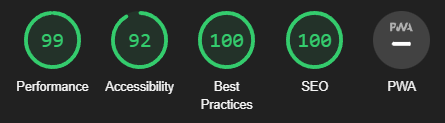
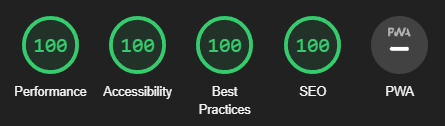
Upgrade | Lighthouse 100%

diff --git a/src/css/index-style.min.css b/src/css/index-style.min.css
@@ -1,1 +1,1 @@
-@import"https://fonts.googleapis.com/css2?family=Chakra+Petch:ital,wght@0,300;0,400;0,500;0,600;0,700;1,300;1,400;1,500;1,600;1,700&display=swap";@import"https://fonts.googleapis.com/css2?family=Exo+2:ital,wght@0,100;0,200;0,300;0,400;0,500;0,600;0,700;0,800;0,900;1,100;1,200;1,300;1,400;1,500;1,600;1,700;1,800;1,900&display=swap";*{margin:0;padding:0;-webkit-box-sizing:border-box;box-sizing:border-box}html{color:#fff;font-family:"Exo 2",sans-serif;font-size:62.5%;background:linear-gradient(179.87deg, #230079 0.27%, #380062 46.44%, #7D0491 99.88%);background-repeat:no-repeat;background-size:cover;width:100vw;height:376.3rem}a,ul{text-decoration:none;list-style:none;color:#fff}.header{width:101.3rem;height:13.2rem;margin:0 auto;display:-webkit-box;display:-ms-flexbox;display:flex;-webkit-box-orient:horizontal;-webkit-box-direction:normal;-ms-flex-direction:row;flex-direction:row;-webkit-box-align:center;-ms-flex-align:center;align-items:center;-webkit-box-pack:center;-ms-flex-pack:center;justify-content:center;border-bottom:1px solid #4543a9}.header__logo{margin:0 13.3rem 0 0;width:11.5rem}.header__nav__list__link{display:-webkit-box;display:-ms-flexbox;display:flex;-webkit-box-orient:horizontal;-webkit-box-direction:normal;-ms-flex-direction:row;flex-direction:row;-webkit-box-pack:center;-ms-flex-pack:center;justify-content:center;-webkit-box-align:center;-ms-flex-align:center;align-items:center;gap:2rem;margin-right:13.5rem}.header__nav__list__button{display:-webkit-box;display:-ms-flexbox;display:flex;-webkit-box-orient:horizontal;-webkit-box-direction:normal;-ms-flex-direction:row;flex-direction:row;-webkit-box-pack:center;-ms-flex-pack:center;justify-content:center;-webkit-box-align:center;-ms-flex-align:center;align-items:center;gap:2rem}.header__nav__links{font-size:2rem;font-weight:700;text-align:center}.header__nav__buttons{width:14.4rem;height:5.3rem;background:#5518ec;border-radius:25px;border:none;color:#fff;font-weight:700;font-size:2rem;text-align:center}.whatis{width:100vw;height:85.6rem;background:url("../../src/img/index/lights_background.png");background-position:center;background-size:cover;background-repeat:no-repeat;display:-webkit-box;display:-ms-flexbox;display:flex;-webkit-box-orient:vertical;-webkit-box-direction:normal;-ms-flex-direction:column;flex-direction:column;-webkit-box-align:center;-ms-flex-align:center;align-items:center;-webkit-box-pack:start;-ms-flex-pack:start;justify-content:flex-start;margin-top:13.3rem}.whatis__title{font-family:"Chakra Petch",sans-serif;font-weight:700;line-height:8.3rem;font-size:6.4rem;text-align:center;padding-bottom:5rem}.whatis__text{width:52.9rem;font-family:"Chakra Petch",sans-serif;font-weight:700;line-height:4rem;font-size:2.4rem;text-align:center;padding-bottom:5rem}.whatis__button{width:20.9rem;height:6.3rem;background-color:#5518ec;border-radius:25px;border:none;color:#fff;font-weight:700;font-size:2rem;text-align:center}.whatis__image{width:54rem;padding-top:4.8rem}.carousel{height:55.5rem;width:113.6rem;margin:6.2rem auto;overflow-x:hidden;position:relative;display:-webkit-box;display:-ms-flexbox;display:flex;border-radius:25px}.carousel__textarea{display:-webkit-box;display:-ms-flexbox;display:flex;-webkit-box-orient:vertical;-webkit-box-direction:normal;-ms-flex-direction:column;flex-direction:column;-webkit-box-align:center;-ms-flex-align:center;align-items:center;margin-left:10.4rem;width:52.9rem}.carousel__textarea__title{font-family:"Chakra Petch",sans-serif;font-weight:700;font-size:4.8rem;text-align:center}.carousel__textarea__text{font-family:"Chakra Petch",sans-serif;font-weight:700;font-size:2.4rem;line-height:4rem;text-align:center}.carousel__inner{height:100%;display:-webkit-box;display:-ms-flexbox;display:flex;-webkit-transition:all ease .5s;transition:all ease .5s}.carousel__item{-webkit-box-flex:1;-ms-flex:1;flex:1;height:100%;display:-webkit-box;display:-ms-flexbox;display:flex;-webkit-box-orient:horizontal;-webkit-box-direction:normal;-ms-flex-direction:row;flex-direction:row;-webkit-box-align:center;-ms-flex-align:center;align-items:center;-webkit-box-pack:center;-ms-flex-pack:center;justify-content:center;background:rgba(217,217,217,.1);border-radius:25px}.carousel__controls__prev{display:inline-block;height:32px;width:32px;position:absolute;left:12px;top:50%;-webkit-transform:translateY(-50%);transform:translateY(-50%);background-image:url("../../src/img/index/prev.svg");background-position:center;background-size:auto 100%;background-repeat:no-repeat;cursor:pointer;opacity:.5}.carousel__controls__prev:hover{opacity:1}.carousel__controls__next{display:inline-block;height:32px;width:32px;position:absolute;right:12px;top:50%;-webkit-transform:translateY(-50%);transform:translateY(-50%);background-image:url("../../src/img/index/next.svg");background-position:center;background-size:auto 100%;background-repeat:no-repeat;cursor:pointer;opacity:.5}.carousel__controls__next:hover{opacity:1}.carousel__indicators{position:absolute;bottom:12px;left:50%;-webkit-transform:translateX(-50%);transform:translateX(-50%);text-align:center;margin:0 auto}.carousel__indicators span{display:inline-block;background-color:#fc7bff;width:20px;height:20px;border-radius:50%;opacity:.5;cursor:pointer;margin:3px}.carousel__indicators span.active{opacity:1}.community{width:100.9rem;padding-top:8rem;margin:0 auto}.community__title{font-family:"Chakra Petch",sans-serif;font-weight:700;font-size:4.8rem;text-align:center;padding-bottom:8rem}.community__blockarea{display:-webkit-box;display:-ms-flexbox;display:flex;-webkit-box-orient:horizontal;-webkit-box-direction:normal;-ms-flex-direction:row;flex-direction:row;-webkit-box-pack:center;-ms-flex-pack:center;justify-content:center;-webkit-box-align:center;-ms-flex-align:center;align-items:center;gap:7.1rem}.community__blockarea__blocks{width:28.9rem;height:43.2rem;background:rgba(217,217,217,.1);border-radius:25px;display:-webkit-box;display:-ms-flexbox;display:flex;-webkit-box-orient:vertical;-webkit-box-direction:normal;-ms-flex-direction:column;flex-direction:column;-webkit-box-align:center;-ms-flex-align:center;align-items:center;padding-top:3.8rem}.community__blockarea__blocks__imageOne{margin-bottom:2.8rem}.community__blockarea__blocks__imageTwo{margin-bottom:6.1rem;margin-top:2rem}.community__blockarea__blocks__imageThree{margin-bottom:4.4rem;margin-top:1rem}.community__blockarea__blocks__title{font-weight:700;font-size:32px;line-height:42px;font-family:"Chakra Petch",sans-serif;padding-bottom:3.1rem}.community__blockarea__blocks__number{font-weight:700;font-size:42px;line-height:42px;font-family:"Chakra Petch",sans-serif;color:#7eff7b}.features{width:113.6rem;margin:0 auto;padding-top:14.4rem;text-align:center;display:-webkit-box;display:-ms-flexbox;display:flex;-webkit-box-orient:vertical;-webkit-box-direction:normal;-ms-flex-direction:column;flex-direction:column}.features__title{font-family:"Chakra Petch",sans-serif;font-weight:700;font-size:4.8rem;text-align:center}.features__blockarea__blocks{margin:4rem 0;width:113.6rem;height:8.6rem;background:rgba(217,217,217,.1);border-radius:25px;display:-webkit-box;display:-ms-flexbox;display:flex;-webkit-box-orient:horizontal;-webkit-box-direction:normal;-ms-flex-direction:row;flex-direction:row;-webkit-box-pack:center;-ms-flex-pack:center;justify-content:center;-webkit-box-align:center;-ms-flex-align:center;align-items:center}.features__blockarea__blocks__text{font-family:"Chakra Petch",sans-serif;font-weight:700;font-size:3rem}.footer{width:101.3rem;height:13.2rem;margin:0 auto;margin-top:37rem;display:-webkit-box;display:-ms-flexbox;display:flex;-webkit-box-orient:horizontal;-webkit-box-direction:normal;-ms-flex-direction:row;flex-direction:row;-webkit-box-align:center;-ms-flex-align:center;align-items:center;-webkit-box-pack:center;-ms-flex-pack:center;justify-content:center;border-bottom:1px solid #4543a9}.footer__copyright{padding-top:3rem;text-align:center;font-size:1.3rem}.footer__logo{margin:0 13.3rem 0 0;width:11.5rem}.footer__nav__list{display:-webkit-box;display:-ms-flexbox;display:flex;-webkit-box-orient:horizontal;-webkit-box-direction:normal;-ms-flex-direction:row;flex-direction:row;-webkit-box-pack:center;-ms-flex-pack:center;justify-content:center;-webkit-box-align:center;-ms-flex-align:center;align-items:center;gap:2rem}.footer__nav__list__links{display:-webkit-box;display:-ms-flexbox;display:flex;-webkit-box-orient:horizontal;-webkit-box-direction:normal;-ms-flex-direction:row;flex-direction:row;-webkit-box-pack:center;-ms-flex-pack:center;justify-content:center;-webkit-box-align:center;-ms-flex-align:center;align-items:center;gap:2rem;margin-right:13.5rem}.footer__nav__list__social{display:-webkit-box;display:-ms-flexbox;display:flex;-webkit-box-orient:horizontal;-webkit-box-direction:normal;-ms-flex-direction:row;flex-direction:row;-webkit-box-pack:center;-ms-flex-pack:center;justify-content:center;-webkit-box-align:center;-ms-flex-align:center;align-items:center;gap:2rem}.footer__nav__links{font-size:2rem;font-weight:700;text-align:center}/*# sourceMappingURL=index-style.min.css.map */
+@import"https://fonts.googleapis.com/css2?family=Chakra+Petch:ital,wght@0,300;0,400;0,500;0,600;0,700;1,300;1,400;1,500;1,600;1,700&display=swap";@import"https://fonts.googleapis.com/css2?family=Exo+2:ital,wght@0,100;0,200;0,300;0,400;0,500;0,600;0,700;0,800;0,900;1,100;1,200;1,300;1,400;1,500;1,600;1,700;1,800;1,900&display=swap";*{margin:0;padding:0;-webkit-box-sizing:border-box;box-sizing:border-box}html{color:#fff;font-family:"Exo 2",sans-serif;font-size:62.5%;background:linear-gradient(179.87deg, #230079 0.27%, #380062 46.44%, #7D0491 99.88%);background-repeat:no-repeat;background-size:cover;overflow-x:hidden;width:100vw}a,ul{text-decoration:none;list-style:none;color:#fff}.header{width:101.3rem;height:13.2rem;margin:0 auto;display:-webkit-box;display:-ms-flexbox;display:flex;-webkit-box-orient:horizontal;-webkit-box-direction:normal;-ms-flex-direction:row;flex-direction:row;-webkit-box-align:center;-ms-flex-align:center;align-items:center;-webkit-box-pack:center;-ms-flex-pack:center;justify-content:center;border-bottom:1px solid #4543a9}.header__logo{margin:0 13.3rem 0 0;width:11.5rem}.header__nav__list__link{display:-webkit-box;display:-ms-flexbox;display:flex;-webkit-box-orient:horizontal;-webkit-box-direction:normal;-ms-flex-direction:row;flex-direction:row;-webkit-box-pack:center;-ms-flex-pack:center;justify-content:center;-webkit-box-align:center;-ms-flex-align:center;align-items:center;gap:2rem;margin-right:13.5rem}.header__nav__list__button{display:-webkit-box;display:-ms-flexbox;display:flex;-webkit-box-orient:horizontal;-webkit-box-direction:normal;-ms-flex-direction:row;flex-direction:row;-webkit-box-pack:center;-ms-flex-pack:center;justify-content:center;-webkit-box-align:center;-ms-flex-align:center;align-items:center;gap:2rem}.header__nav__links{font-size:2rem;font-weight:700;text-align:center}.header__nav__buttons{width:14.4rem;height:5.3rem;background:#5518ec;border-radius:25px;border:none;color:#fff;font-weight:700;font-size:2rem;text-align:center}.whatis{width:100vw;height:85.6rem;background:url("../../src/img/index/lights_background.png");background-position:center;background-size:cover;background-repeat:no-repeat;display:-webkit-box;display:-ms-flexbox;display:flex;-webkit-box-orient:vertical;-webkit-box-direction:normal;-ms-flex-direction:column;flex-direction:column;-webkit-box-align:center;-ms-flex-align:center;align-items:center;-webkit-box-pack:start;-ms-flex-pack:start;justify-content:flex-start;margin-top:13.3rem}.whatis__title{font-family:"Chakra Petch",sans-serif;font-weight:700;line-height:8.3rem;font-size:6.4rem;text-align:center;padding-bottom:5rem}.whatis__text{width:52.9rem;font-family:"Chakra Petch",sans-serif;font-weight:700;line-height:4rem;font-size:2.4rem;text-align:center;padding-bottom:5rem}.whatis__button{width:20.9rem;height:6.3rem;background-color:#5518ec;border-radius:25px;border:none;color:#fff;font-weight:700;font-size:2rem;text-align:center}.whatis__image{width:54rem;padding-top:4.8rem}.carousel{height:55.5rem;width:113.6rem;margin:6.2rem auto;overflow-x:hidden;position:relative;display:-webkit-box;display:-ms-flexbox;display:flex;border-radius:25px}.carousel__textarea{display:-webkit-box;display:-ms-flexbox;display:flex;-webkit-box-orient:vertical;-webkit-box-direction:normal;-ms-flex-direction:column;flex-direction:column;-webkit-box-align:center;-ms-flex-align:center;align-items:center;margin-left:10.4rem;width:52.9rem}.carousel__textarea__title{font-family:"Chakra Petch",sans-serif;font-weight:700;font-size:4.8rem;text-align:center}.carousel__textarea__text{font-family:"Chakra Petch",sans-serif;font-weight:700;font-size:2.4rem;line-height:4rem;text-align:center}.carousel__inner{height:100%;display:-webkit-box;display:-ms-flexbox;display:flex;-webkit-transition:all ease .5s;transition:all ease .5s}.carousel__item{-webkit-box-flex:1;-ms-flex:1;flex:1;height:100%;display:-webkit-box;display:-ms-flexbox;display:flex;-webkit-box-orient:horizontal;-webkit-box-direction:normal;-ms-flex-direction:row;flex-direction:row;-webkit-box-align:center;-ms-flex-align:center;align-items:center;-webkit-box-pack:center;-ms-flex-pack:center;justify-content:center;background:rgba(217,217,217,.1);border-radius:25px}.carousel__controls__prev{display:inline-block;height:32px;width:32px;position:absolute;left:12px;top:50%;-webkit-transform:translateY(-50%);transform:translateY(-50%);background-image:url("../../src/img/index/prev.svg");background-position:center;background-size:auto 100%;background-repeat:no-repeat;cursor:pointer;opacity:.5}.carousel__controls__prev:hover{opacity:1}.carousel__controls__next{display:inline-block;height:32px;width:32px;position:absolute;right:12px;top:50%;-webkit-transform:translateY(-50%);transform:translateY(-50%);background-image:url("../../src/img/index/next.svg");background-position:center;background-size:auto 100%;background-repeat:no-repeat;cursor:pointer;opacity:.5}.carousel__controls__next:hover{opacity:1}.carousel__indicators{position:absolute;bottom:12px;left:50%;-webkit-transform:translateX(-50%);transform:translateX(-50%);text-align:center;margin:0 auto}.carousel__indicators span{display:inline-block;background-color:#fc7bff;width:20px;height:20px;border-radius:50%;opacity:.5;cursor:pointer;margin:3px}.carousel__indicators span.active{opacity:1}.community{width:100.9rem;padding-top:8rem;margin:0 auto}.community__title{font-family:"Chakra Petch",sans-serif;font-weight:700;font-size:4.8rem;text-align:center;padding-bottom:8rem}.community__blockarea{display:-webkit-box;display:-ms-flexbox;display:flex;-webkit-box-orient:horizontal;-webkit-box-direction:normal;-ms-flex-direction:row;flex-direction:row;-webkit-box-pack:center;-ms-flex-pack:center;justify-content:center;-webkit-box-align:center;-ms-flex-align:center;align-items:center;gap:7.1rem}.community__blockarea__blocks{width:28.9rem;height:43.2rem;background:rgba(217,217,217,.1);border-radius:25px;display:-webkit-box;display:-ms-flexbox;display:flex;-webkit-box-orient:vertical;-webkit-box-direction:normal;-ms-flex-direction:column;flex-direction:column;-webkit-box-align:center;-ms-flex-align:center;align-items:center;padding-top:3.8rem}.community__blockarea__blocks__imageOne{margin-bottom:2.8rem}.community__blockarea__blocks__imageTwo{margin-bottom:6.1rem;margin-top:2rem}.community__blockarea__blocks__imageThree{margin-bottom:4.4rem;margin-top:1rem}.community__blockarea__blocks__title{font-weight:700;font-size:32px;line-height:42px;font-family:"Chakra Petch",sans-serif;padding-bottom:3.1rem}.community__blockarea__blocks__number{font-weight:700;font-size:42px;line-height:42px;font-family:"Chakra Petch",sans-serif;color:#7eff7b}.features{width:113.6rem;margin:0 auto;padding-top:14.4rem;text-align:center;display:-webkit-box;display:-ms-flexbox;display:flex;-webkit-box-orient:vertical;-webkit-box-direction:normal;-ms-flex-direction:column;flex-direction:column}.features__title{font-family:"Chakra Petch",sans-serif;font-weight:700;font-size:4.8rem;text-align:center}.features__blockarea__blocks{margin:4rem 0;width:113.6rem;height:8.6rem;background:rgba(217,217,217,.1);border-radius:25px;display:-webkit-box;display:-ms-flexbox;display:flex;-webkit-box-orient:horizontal;-webkit-box-direction:normal;-ms-flex-direction:row;flex-direction:row;-webkit-box-pack:center;-ms-flex-pack:center;justify-content:center;-webkit-box-align:center;-ms-flex-align:center;align-items:center}.features__blockarea__blocks__text{font-family:"Chakra Petch",sans-serif;font-weight:700;font-size:3rem}.footer{width:101.3rem;height:13.2rem;margin:0 auto;margin-top:15rem;display:-webkit-box;display:-ms-flexbox;display:flex;-webkit-box-orient:horizontal;-webkit-box-direction:normal;-ms-flex-direction:row;flex-direction:row;-webkit-box-align:center;-ms-flex-align:center;align-items:center;-webkit-box-pack:center;-ms-flex-pack:center;justify-content:center;border-bottom:1px solid #4543a9}.footer__copyright{padding-top:3rem;text-align:center;font-size:1.3rem;margin-bottom:5rem}.footer__logo{margin:0 13.3rem 0 0;width:11.5rem}.footer__nav__list{display:-webkit-box;display:-ms-flexbox;display:flex;-webkit-box-orient:horizontal;-webkit-box-direction:normal;-ms-flex-direction:row;flex-direction:row;-webkit-box-pack:center;-ms-flex-pack:center;justify-content:center;-webkit-box-align:center;-ms-flex-align:center;align-items:center;gap:2rem}.footer__nav__list__links{display:-webkit-box;display:-ms-flexbox;display:flex;-webkit-box-orient:horizontal;-webkit-box-direction:normal;-ms-flex-direction:row;flex-direction:row;-webkit-box-pack:center;-ms-flex-pack:center;justify-content:center;-webkit-box-align:center;-ms-flex-align:center;align-items:center;gap:2rem;margin-right:13.5rem}.footer__nav__list__social{display:-webkit-box;display:-ms-flexbox;display:flex;-webkit-box-orient:horizontal;-webkit-box-direction:normal;-ms-flex-direction:row;flex-direction:row;-webkit-box-pack:center;-ms-flex-pack:center;justify-content:center;-webkit-box-align:center;-ms-flex-align:center;align-items:center;gap:2rem}.footer__nav__links{font-size:2rem;font-weight:700;text-align:center}/*# sourceMappingURL=index-style.min.css.map */

diff --git a/index.html b/index.html
@@ -47,7 +47,7 @@
                 <div class="carousel__item">
                     <img class="carousel__image" alt="Shield with hand and money inside" src="src/img/index/free-img.png">
                     <div class="carousel__textarea">
-                        <h3 class="carousel__textarea__title">Totally <span style="color: #7EFF7B;">free</span> !</h3>
+                        <h2 class="carousel__textarea__title">Totally <span style="color: #7EFF7B;">free</span> !</h3>
                         <p class="carousel__textarea__text">
                             Our website is totally free to use but we also need to pay the server where it is hosted. 
                             That’s why we need to have some ads on our site. We know it is annoying sometimes, but to garentee a 
@@ -58,7 +58,7 @@
                 <div class="carousel__item">
                     <img class="carousel__image" alt="Gamepad & cinema tickets" src="src/img/index/passion-img.png">
                     <div class="carousel__textarea">
-                        <h3 class="carousel__textarea__title">Find <span style="color: #7EFF7B;">someone</span> with the same <span style="color: #7EFF7B;">passions</span></h3>
+                        <h2 class="carousel__textarea__title">Find <span style="color: #7EFF7B;">someone</span> with the same <span style="color: #7EFF7B;">passions</span></h3>
                         <p class="carousel__textarea__text">
                             Do you like video games ? Cosplay ? Anime ? Or something else ? You will probably find someone with the same hobbies. 
                             Complete your profile with all the things you like and let us make for you a selection of our best profile.
@@ -124,9 +124,9 @@
         </nav>
         <nav>
             <ul class="footer__nav__list__social">
-                <li class="footer__nav__items"><a class="footer__nav__links" href="#"><i class="footer__nav__icons fa-brands fa-facebook fa-2x"></i></a></li>
-                <li class="footer__nav__items"><a class="footer__nav__links" href="#"><i class="footer__nav__icons fa-brands fa-twitter fa-2x"></i></a></li>
-                <li class="footer__nav__items"><a class="footer__nav__links" href="#"><i class="footer__nav__icons fa-brands fa-discord fa-2x"></i></a></li>
+                <li class="footer__nav__items"><a class="footer__nav__links" title="Facebook link" href="#"><i class="footer__nav__icons fa-brands fa-facebook fa-2x"></i></a></li>
+                <li class="footer__nav__items"><a class="footer__nav__links" title="Twitter link" href="#"><i class="footer__nav__icons fa-brands fa-twitter fa-2x"></i></a></li>
+                <li class="footer__nav__items"><a class="footer__nav__links" title="Discord link" href="#"><i class="footer__nav__icons fa-brands fa-discord fa-2x"></i></a></li>
             </ul>
             <div class="footer__nav__line"></div>
         </nav>

diff --git a/src/css/index-style.css b/src/css/index-style.css
@@ -14,8 +14,8 @@ html {
   background: linear-gradient(179.87deg, #230079 0.27%, #380062 46.44%, #7D0491 99.88%);
   background-repeat: no-repeat;
   background-size: cover;
+  overflow-x: hidden;
   width: 100vw;
-  height: 376.3rem;
 }
 
 a, ul {
@@ -401,7 +401,7 @@ a, ul {
   width: 101.3rem;
   height: 13.2rem;
   margin: 0 auto;
-  margin-top: 37rem;
+  margin-top: 15rem;
   display: -webkit-box;
   display: -ms-flexbox;
   display: flex;
@@ -421,6 +421,7 @@ a, ul {
   padding-top: 3rem;
   text-align: center;
   font-size: 1.3rem;
+  margin-bottom: 5rem;
 }
 .footer__logo {
   margin: 0 13.3rem 0 0;

diff --git a/src/scss/global/_footer.scss b/src/scss/global/_footer.scss
@@ -2,7 +2,7 @@
     width: 101.3rem;
     height: 13.2rem;
     margin: 0 auto;
-    margin-top: 37rem;
+    margin-top: 15rem;
 
     display: flex;
     flex-direction: row;
@@ -15,6 +15,7 @@
         padding-top: 3rem;
         text-align: center;
         font-size: 1.3rem;
+        margin-bottom: 5rem;
     }
 
 

diff --git a/src/scss/global/abstracts/_init.scss b/src/scss/global/abstracts/_init.scss
@@ -12,9 +12,9 @@ html {
     background: linear-gradient(179.87deg, #230079 0.27%, #380062 46.44%, #7D0491 99.88%);
     background-repeat: no-repeat;
     background-size: cover;
+    overflow-x: hidden;
 
     width: 100vw;
-    height: 376.3rem;
 }
 
 a, ul {
